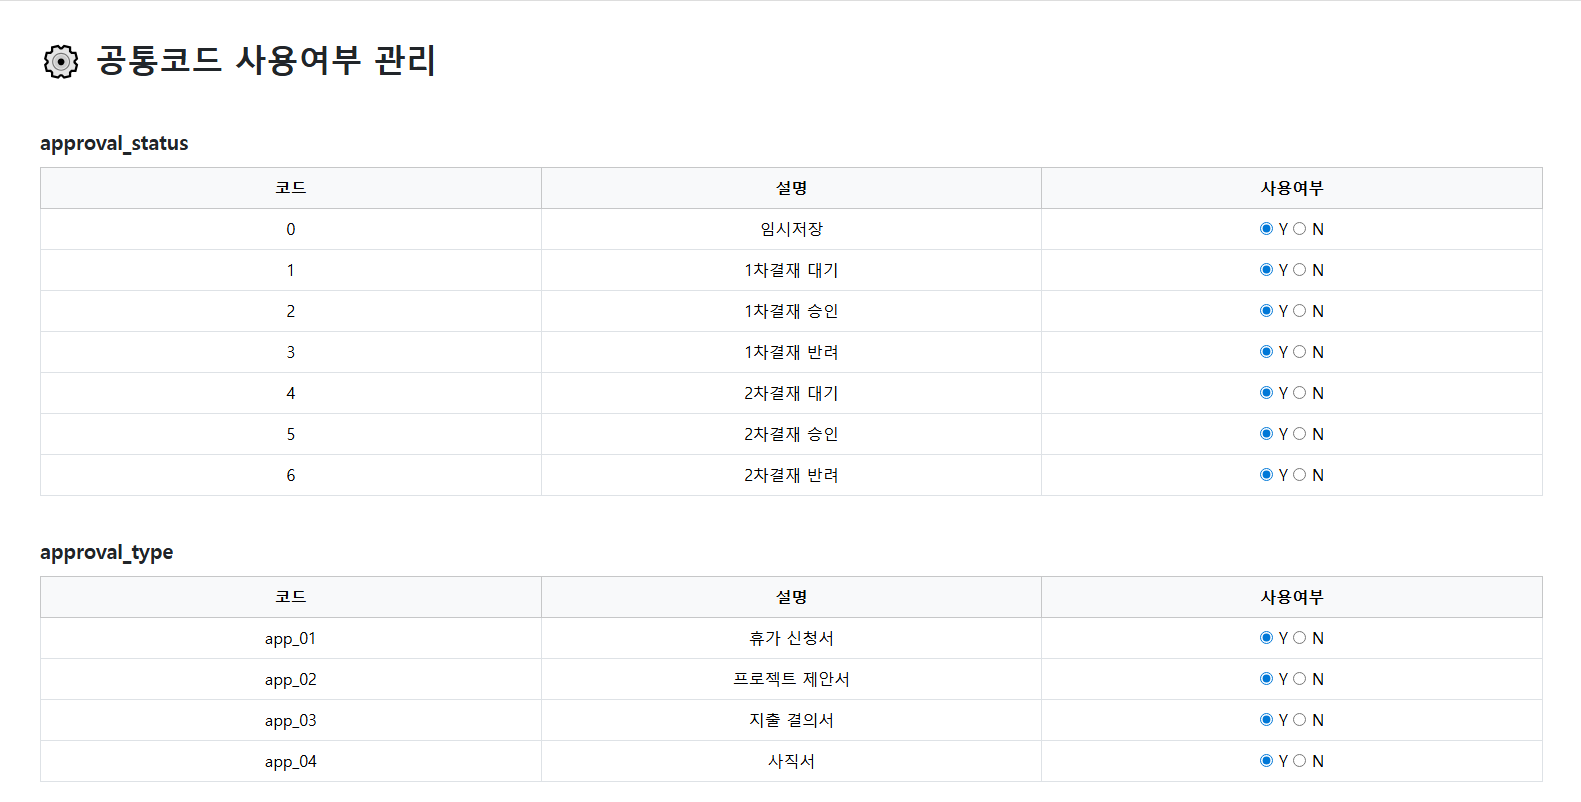
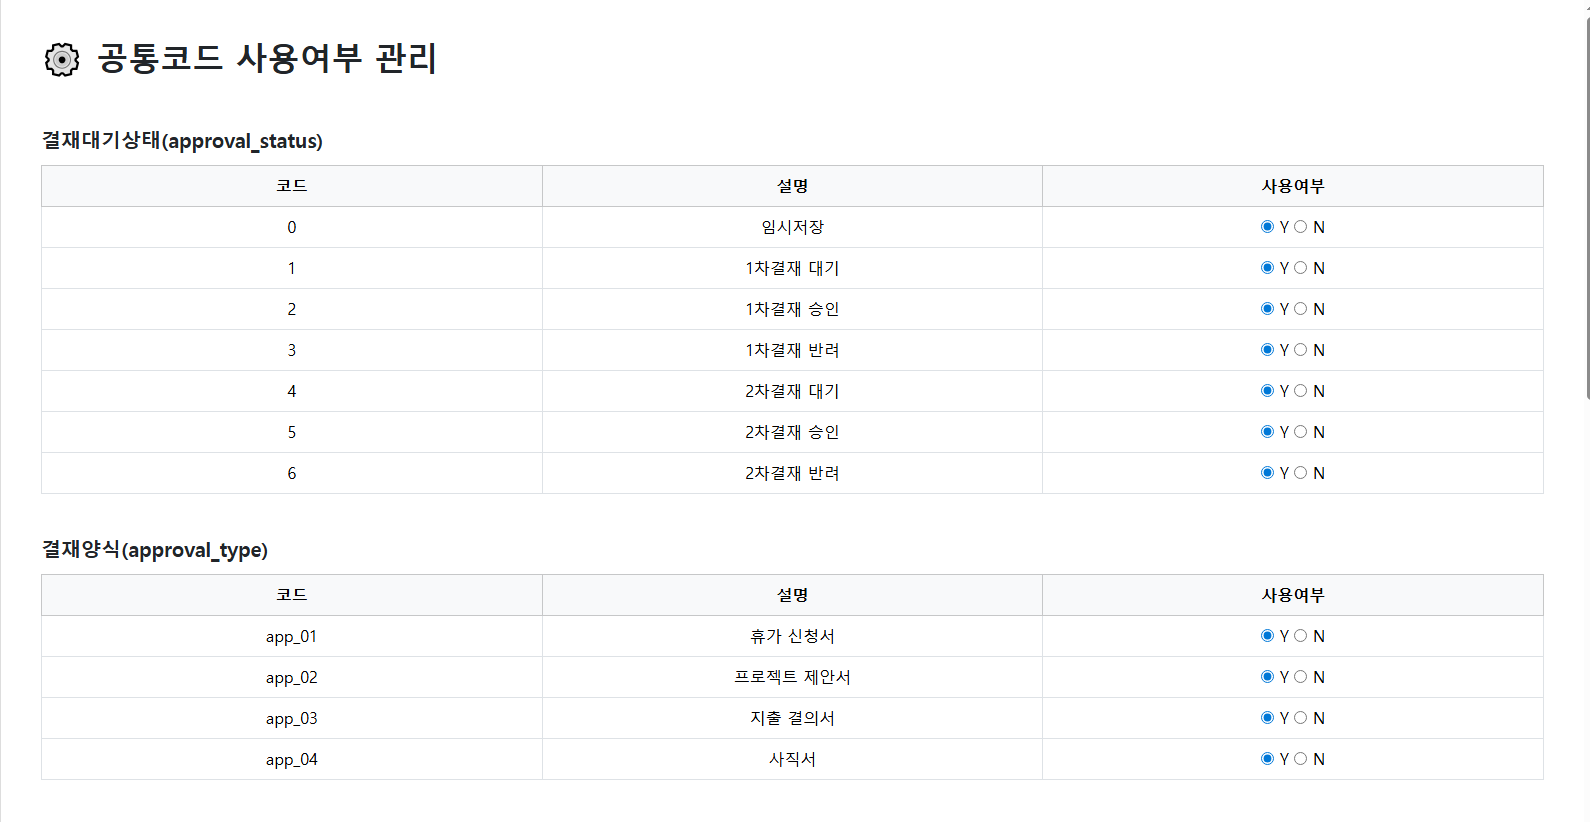
공통코드관리화면 메뉴명한글출력

diff --git a/src/main/java/ldb/groupware/service/common/CommonService.java b/src/main/java/ldb/groupware/service/common/CommonService.java
@@ -32,19 +32,26 @@ public class CommonService {
         return deptList;
     }
 
-    public Map<String, List<CommonCodeDto>> getGroupedCodes() {
+    public Map<String, Map<String, Object>> getGroupedCodes() {
+
         List<CommonCodeDto> allCodes =  commonMapper.selectAllCodes();
-        Map<String, List<CommonCodeDto>> groupedMap = new LinkedHashMap<>();
+        Map<String, Map<String, Object>> resultMap = new LinkedHashMap<>();
 
         for (CommonCodeDto code : allCodes) {
-            String codeGroup = code.getCodeGroup();
-            if (!groupedMap.containsKey(codeGroup)) {
-                groupedMap.put(codeGroup, new ArrayList<CommonCodeDto>());
+            String group = code.getCodeGroup();
+
+            resultMap.putIfAbsent(group, new LinkedHashMap<>());
+
+            if (!resultMap.get(group).containsKey("groupName")) {
+                resultMap.get(group).put("groupName", code.getCodeGroupName(group));
+                resultMap.get(group).put("codes", new ArrayList<CommonCodeDto>());
             }
-            groupedMap.get(codeGroup).add(code);
+
+            List<CommonCodeDto> codeList = (List<CommonCodeDto>) resultMap.get(group).get("codes");
+            codeList.add(code);
         }
 
-        return groupedMap;
+        return resultMap;
     }
 
     public void updateCodeUsage(List<CommonCodeDto> codes) {

diff --git a/src/main/java/ldb/groupware/dto/common/CommonCodeDto.java b/src/main/java/ldb/groupware/dto/common/CommonCodeDto.java
@@ -13,4 +13,30 @@ public class CommonCodeDto {
     private String codeId;
     private String codeName;
     private String useYn; // 'Y' or 'N'
+
+    public String getCodeGroupName(String codeGroup) {
+        switch (codeGroup) {
+            case "approval_status":
+                return "결재대기상태";
+
+            case "approval_type":
+                return "결재양식";
+
+            case "attach_type":
+                return "첨부파일타입";
+
+            case "fac_type":
+                return "공용설비 타입";
+
+            case "leave_type":
+                return "휴가신청 타입";
+
+            case "mem_status":
+                return "재직여부";
+
+            default:
+                return "정의되지않은 코드";
+        }
+    }
+
 }

diff --git a/src/main/java/ldb/groupware/controller/common/CommonApiController.java b/src/main/java/ldb/groupware/controller/common/CommonApiController.java
@@ -21,8 +21,8 @@ public class CommonApiController {
 
     // 코드 그룹별 조회
     @GetMapping("/list")
-    public ResponseEntity<ApiResponseDto<Map<String, List<CommonCodeDto>>>> getCodeList() {
-        Map<String, List<CommonCodeDto>> groupedCodes = commonService.getGroupedCodes();
+    public ResponseEntity<ApiResponseDto<Map<String, Map<String, Object>>>> getCodeList() {
+        Map<String, Map<String, Object>> groupedCodes = commonService.getGroupedCodes();
         return ApiResponseDto.ok(groupedCodes);
     }
 
